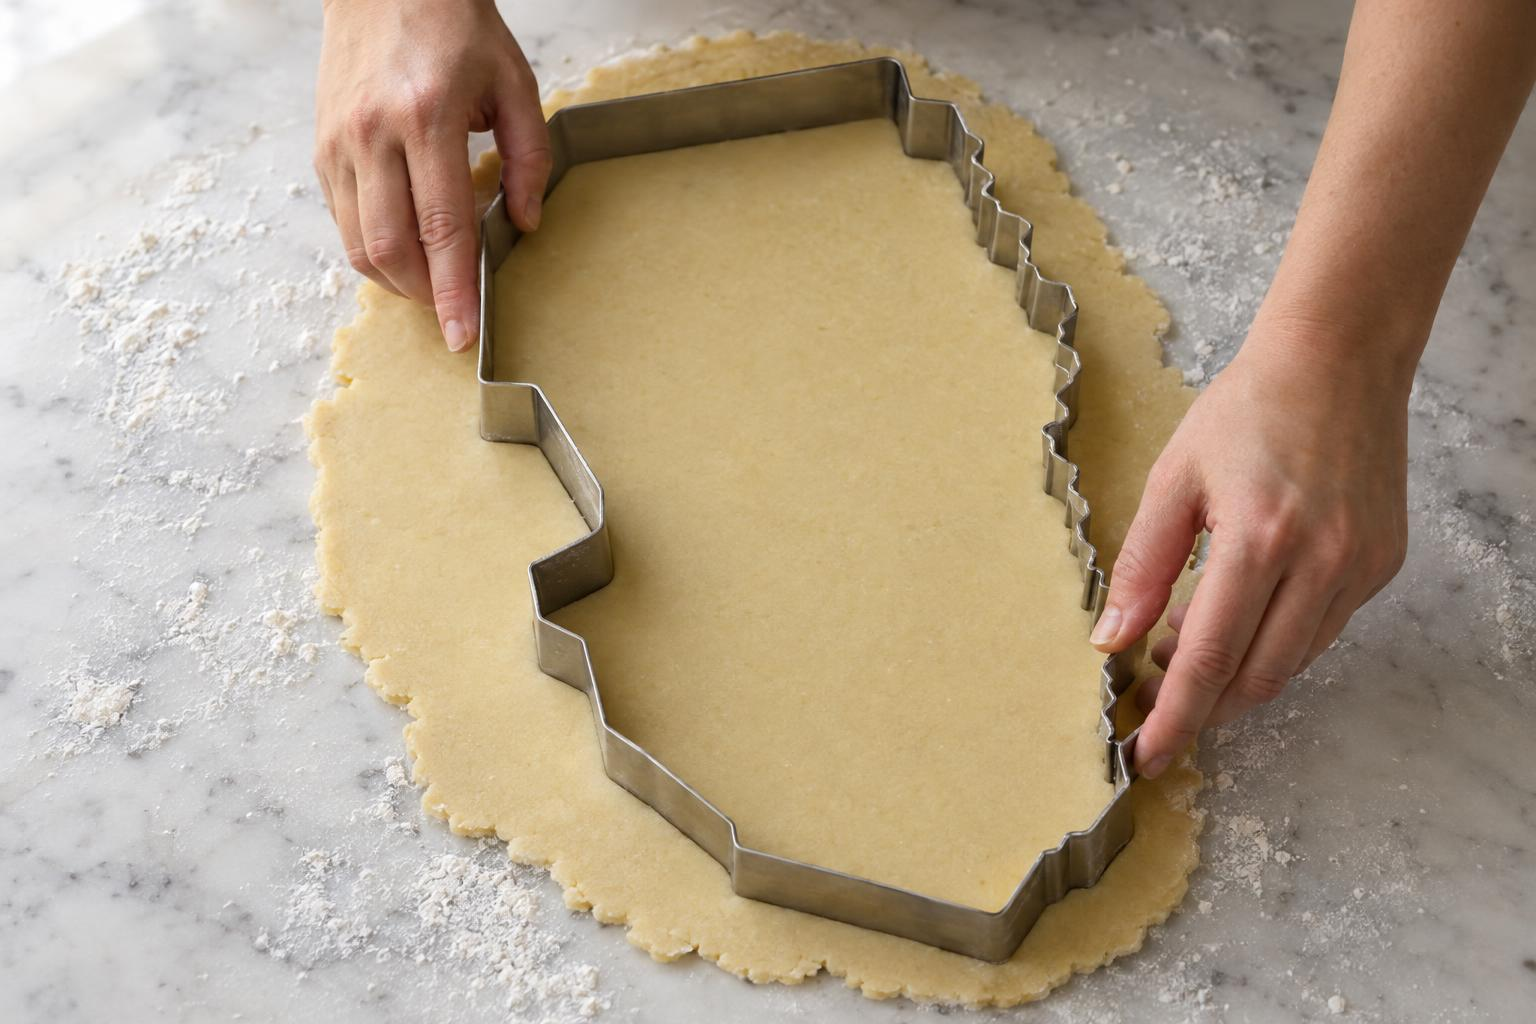
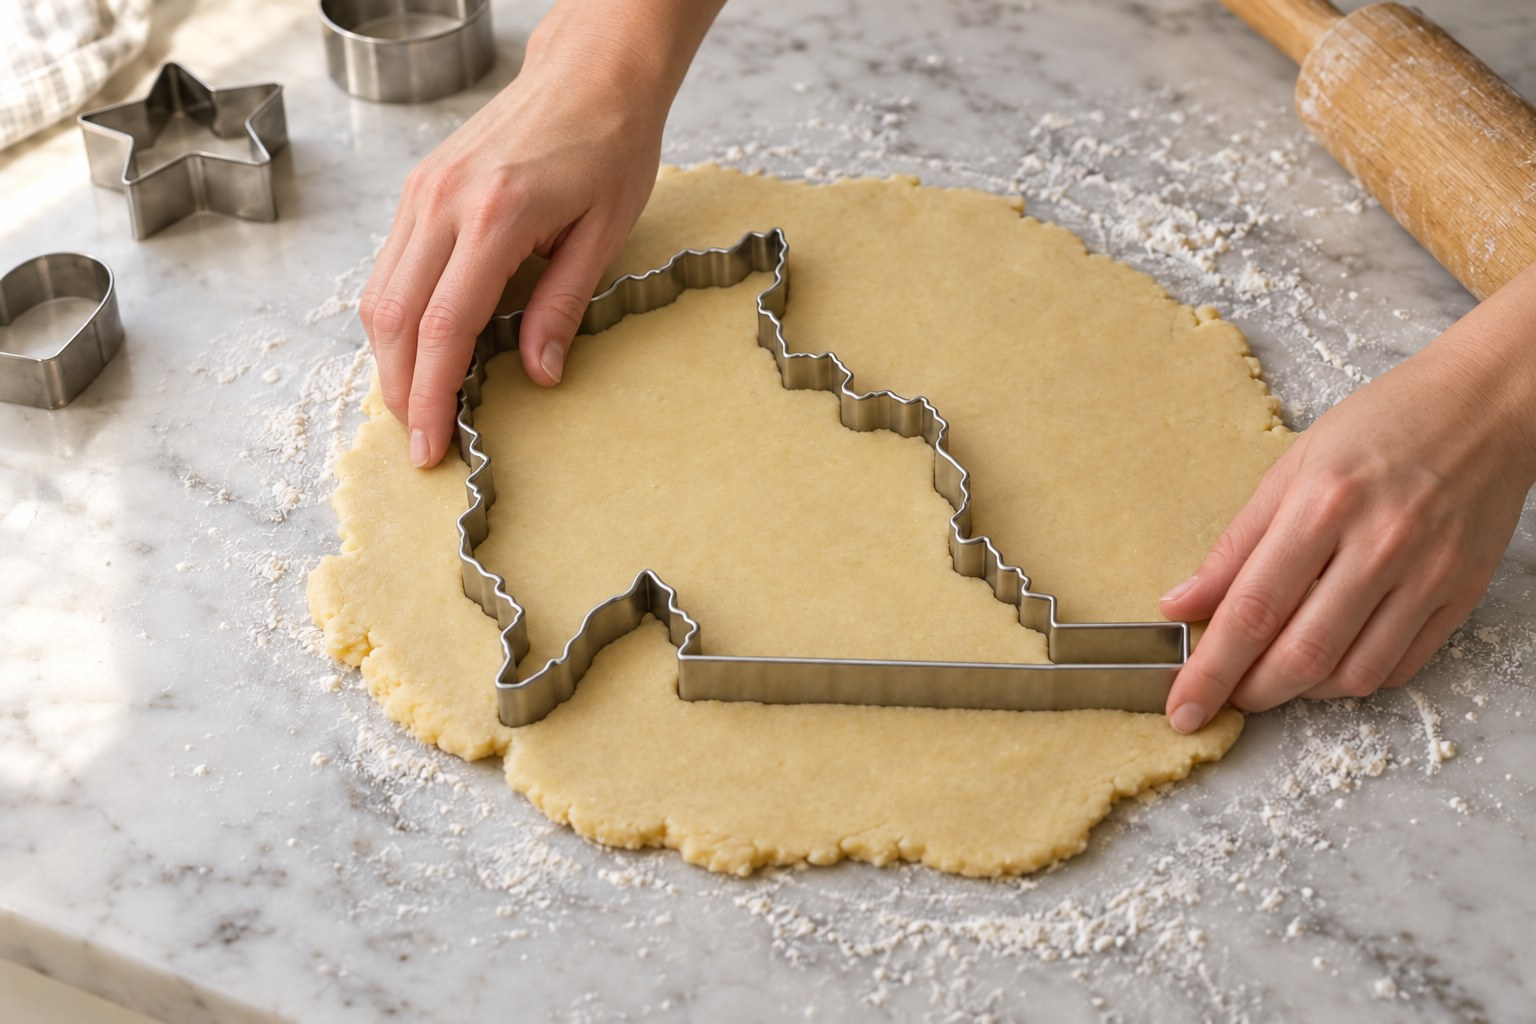
Cookie series with real Lab 11 geography; workflow slide moved before the model
- The five cut images in Day 22's cookie slide and Day 23's walkthrough are replaced
  with a version drawn from the Lab 11 data: the cutter is the real Utah County outline,
  the band is the 2-mile buffer around I-15 inside the county, and the round holes fall
  where the 12 stores' 2-mile buffers do. Each image is a gpt-image-2.5-sunburst edit of
  the previous one plus a shape guide drawn from the GeoPackage, so the counter, light
  and dough carry through. tools/generate_cookie_series.py rebuilds them.
- The first version (generic shapes) and its prompts are kept in
  tools/divider-images/archive/week12-cookies-v1/ with roll-back steps.
- Day 22: "Geoprocessing workflows" moves from before the data walk-through to right
  before "Putting it all together", so the generic shape leads into the real model.

diff --git a/tools/generate_cookie_series.py b/tools/generate_cookie_series.py
@@ -1,0 +1,169 @@
+"""Generate the cookie-cutter site-selection photo series with real Lab 11 geography.
+
+Each step is an image *edit*, not a fresh generation: the previous step's photo goes in as the
+first image (so the counter, light, dough and hands carry over), and a flat shape guide drawn from
+the real Lab 11 geometry goes in as the second (so the cutter is actually Utah County, the band is
+actually the 2-mile buffer around I-15 inside the county, and the round holes sit where the
+existing stores are). The guides are drawn by the `guides` step from GeoJSON exported out of the
+Lab 11 GeoPackage (tools/lab11_run_analysis.py writes it):
+
+    ogr2ogr -f GeoJSON -t_srs EPSG:26912 county.geojson UtahCounty.gpkg UtahCounty
+    ogr2ogr -f GeoJSON -t_srs EPSG:26912 MajorRoads_UTM.geojson UtahCounty.gpkg MajorRoads_UTM
+    ogr2ogr -f GeoJSON -t_srs EPSG:26912 WalmartBuffer_utm.geojson UtahCounty.gpkg WalmartBuffer_utm
+
+Only I-15 is buffered for the band (Lab 11 also buffers the highways, which makes a branching
+network no cookie cutter can be). Needs shapely, matplotlib, pillow and openai in a venv:
+
+    python tools/generate_cookie_series.py guides <geojson dir> <work dir>
+    python tools/generate_cookie_series.py photos <work dir> <step-1 photo> [first step]
+
+The API key comes from OPENAI_API_KEY or ~/.config/openai/api_key and is never printed.
+"""
+
+import base64
+import json
+import os
+import sys
+from pathlib import Path
+
+MODEL = os.environ.get("COOKIE_MODEL", "gpt-image-2.5-sunburst")
+TWO_MILES = 3218.69
+
+STYLE = ("Keep the same photograph: the same light marble countertop dusted with flour, the same pale "
+         "sugar cookie dough, the same warm soft window light from the left, the same three-quarter "
+         "overhead camera angle and the same white stainless steel cutters. Photorealistic. Hands only, "
+         "no faces. No text, labels, maps, lines or drawings anywhere in the photo: the second image is "
+         "only a shape reference and must not appear in the result.")
+
+STEPS = [
+    ("ws-cookie-2-county-cutter", "guide_county.png",
+     "Edit the first photo. Two hands press a large stainless steel cookie cutter down into the rolled-out "
+     "dough. The cutter's outline is exactly the dark silhouette in the second image, with the same "
+     "proportions and the same orientation (top of the silhouette toward the back of the counter): a "
+     "jagged, irregular west and north edge, a narrow tip at the south-west corner, and a long straight "
+     "rectangular arm along the south-east. The cutter fits inside the dough with dough showing outside "
+     "it on every side."),
+    ("ws-cookie-3-county-dough", "guide_county.png",
+     "Edit the first photo. The cutter has been lifted off. What remains on the counter is a piece of dough "
+     "cut cleanly to exactly the silhouette shape in the second image, same proportions and orientation. "
+     "All the dough that was outside the cutter has been gathered into a rough pile of scraps at the edge "
+     "of the frame. The same stainless steel cutter, in the same shape, lies on the counter beside the "
+     "dough piece. No hands."),
+    ("ws-cookie-4-band-cutter", "guide_band.png",
+     "Edit the first photo. Put the large cutter away and remove it from the counter; keep the county-shaped "
+     "dough piece exactly where and how it is. Two hands press a long, narrow stainless steel cookie cutter "
+     "into that dough. The narrow cutter is exactly the dark band in the second image, placed on the dough "
+     "exactly where the dark band sits inside the light gray county shape. It does NOT follow the outer "
+     "edge of the dough: it cuts through the interior. It starts at the top edge of the dough a little "
+     "right of center, runs down and to the right through the middle of the dough, then bends and runs "
+     "down and to the left, ending at the bottom edge left of center, with dough on both sides of it the "
+     "whole way. Gentle curves and rounded ends, about one eighth as wide as the dough. Only the dough "
+     "inside this narrow band will be kept."),
+    ("ws-cookie-5-round-cutters", "guide_final.png",
+     "Edit the first photo. The county-shaped dough has been trimmed: only the long, narrow, diagonal strip "
+     "of dough that was inside the band cutter remains, exactly the shape of the band (the gray and dark "
+     "areas together) in the second image; the rest of the dough has been cleared away. Several small round "
+     "stainless steel cookie cutters, all the same size, are being pressed into the strip at the places "
+     "marked by the red circles in the second image: a cluster of overlapping circles near the top, and "
+     "more spread down the strip. One hand presses a round cutter in; the others sit in the dough."),
+    ("ws-cookie-6-result", "guide_final.png",
+     "Edit the first photo. All the round cutters have been lifted out and set in a small group beside the "
+     "strip, with the little round discs of dough they punched out in a pile next to them. The strip now "
+     "has round holes and round bites cut out of it exactly where the red circles are in the second image, "
+     "so what remains matches the dark shape in the second image. No hands. Seen slightly from above, like "
+     "the final shot of a recipe."),
+]
+
+
+def guides(geo_dir, work):
+    import matplotlib
+    matplotlib.use("Agg")
+    import matplotlib.pyplot as plt
+    from shapely.geometry import shape
+    from shapely.ops import unary_union
+
+    geo, work = Path(geo_dir), Path(work)
+    work.mkdir(parents=True, exist_ok=True)
+
+    def load(name, keep=lambda f: True):
+        feats = json.loads((geo / name).read_text())["features"]
+        return unary_union([shape(f["geometry"]).buffer(0) for f in feats if keep(f)])
+
+    county = load("county.geojson")
+    i15 = load("MajorRoads_UTM.geojson", lambda f: (f["properties"].get("DOT_HWYNAM") or "").strip() == "I-15")
+    stores = load("WalmartBuffer_utm.geojson")
+    band = i15.buffer(TWO_MILES).intersection(county)
+    final = band.difference(stores)
+
+    minx, miny, maxx, maxy = county.bounds
+    cx, cy = (minx + maxx) / 2, (miny + maxy) / 2
+    h = (maxy - miny) / 0.82
+    w = h * 1.5
+
+    def fill(ax, g, fc, ec="none", lw=0, z=1):
+        for p in getattr(g, "geoms", [g]):
+            x, y = p.exterior.xy
+            ax.fill(x, y, fc=fc, ec=ec, lw=lw, zorder=z)
+            for hole in p.interiors:
+                ax.fill(*hole.xy, fc="white", ec=ec, lw=lw, zorder=z)
+
+    def canvas():
+        f = plt.figure(figsize=(15.36, 10.24), dpi=100)
+        ax = f.add_axes([0, 0, 1, 1])
+        ax.set_xlim(cx - w / 2, cx + w / 2)
+        ax.set_ylim(cy - h / 2, cy + h / 2)
+        ax.set_aspect("equal")
+        ax.axis("off")
+        return f, ax
+
+    f, ax = canvas(); fill(ax, county, "#333333"); f.savefig(work / "guide_county.png"); plt.close(f)
+    f, ax = canvas(); fill(ax, county, "#dddddd", "#999999", 1.5); fill(ax, band, "#333333", z=2)
+    f.savefig(work / "guide_band.png"); plt.close(f)
+    f, ax = canvas(); fill(ax, county, "#f2f2f2", "#cccccc", 1); fill(ax, band, "#bbbbbb", z=2); fill(ax, final, "#333333", z=3)
+    for p in getattr(stores, "geoms", [stores]):
+        x, y = p.exterior.xy
+        ax.plot(x, y, color="#c8102e", lw=2, zorder=4)
+    f.savefig(work / "guide_final.png"); plt.close(f)
+    print("guides written to", work)
+
+
+def api_key():
+    key = os.environ.get("OPENAI_API_KEY")
+    if not key:
+        p = Path.home() / ".config/openai/api_key"
+        key = p.read_text().strip() if p.exists() else None
+    if not key:
+        sys.exit("No OpenAI key: set OPENAI_API_KEY or write ~/.config/openai/api_key")
+    return key
+
+
+def photos(work, first_photo, start=None):
+    from openai import OpenAI
+    client = OpenAI(api_key=api_key())
+    work = Path(work)
+    prev = Path(first_photo)
+    log = []
+    begin = False if start else True
+    for name, guide, prompt in STEPS:
+        out = work / f"{name}.png"
+        if not begin:
+            if name == start:
+                begin = True
+            else:
+                prev = out
+                continue
+        full = prompt + " " + STYLE
+        with open(prev, "rb") as a, open(work / guide, "rb") as b:
+            r = client.images.edit(model=MODEL, image=[a, b], prompt=full, size="1536x1024", quality="high")
+        out.write_bytes(base64.b64decode(r.data[0].b64_json))
+        log.append({"id": name, "model": MODEL, "input": prev.name, "guide": guide, "prompt": full})
+        print("wrote", out, flush=True)
+        prev = out
+    (work / "series-manifest.json").write_text(json.dumps(log, indent=1))
+
+
+if __name__ == "__main__":
+    if sys.argv[1] == "guides":
+        guides(sys.argv[2], sys.argv[3])
+    else:
+        photos(sys.argv[2], sys.argv[3], sys.argv[4] if len(sys.argv) > 4 else None)

diff --git a/slides/day-22/walmart-site-selection.md b/slides/day-22/walmart-site-selection.md
@@ -337,7 +337,7 @@ When you run an **Intersection** or a **Union**, the attribute tables of both la
 * <i class="step"></i>
 * <i class="step"></i>
 
-<!-- The whole Walmart lab in one picture, before we touch the real data. Press → once per panel. 1: the rolled dough is everywhere; nothing has been ruled out. 2: the county-shaped cutter is the study area, a Clip. 3: the cut piece is a brand new layer and the scraps are thrown away. 4: the long band is the 2-mile buffer around I-15; pressing it in and keeping what is inside is an Intersection. 5: each round cutter is a 2-mile buffer around an existing store; this time we throw away what is inside, a Difference. 6: what is left satisfies every criterion at once, and that leftover dough is the answer to the lab. The one idea to land: Intersection keeps what is inside the cutter, Difference removes it. (Bring cookies some semester; the analogy sticks even better with a real sugar cookie in hand.) The census-density cut is left out of the pictures to keep it to six; mention that it is one more cutter. Images generated with gpt-image-2.5-flare (panel 4 with gpt-image-2.5-sunburst), November 2026; prompts in tools/divider-images/week12-cookies.json. Day 23's Workflow Walkthrough deck has an older, different cookie series (state, county, lake, stores). -->
+<!-- The whole Walmart lab in one picture, before we touch the real data. Press → once per panel. 1: the rolled dough is everywhere; nothing has been ruled out. 2: the county-shaped cutter is the study area, a Clip. 3: the cut piece is a brand new layer and the scraps are thrown away. 4: the long band is the 2-mile buffer around I-15; pressing it in and keeping what is inside is an Intersection. 5: each round cutter is a 2-mile buffer around an existing store; this time we throw away what is inside, a Difference. 6: what is left satisfies every criterion at once, and that leftover dough is the answer to the lab. The one idea to land: Intersection keeps what is inside the cutter, Difference removes it. (Bring cookies some semester; the analogy sticks even better with a real sugar cookie in hand.) The census-density cut is left out of the pictures to keep it to six; mention that it is one more cutter. The shapes are real: the cutter is the Utah County outline, the band is the 2-mile buffer around I-15 inside the county, and the round holes sit where the 12 existing stores' 2-mile buffers fall, all from the Lab 11 data. Point at the cluster of overlapping holes at the north end (Lehi and American Fork). The band is I-15 only; the lab also buffers the highways, which would make a branching cutter. Generated November 2026 as a chain of gpt-image-2.5-sunburst edits, each step from the previous photo plus a shape guide drawn from the Lab 11 GeoPackage: tools/generate_cookie_series.py. Thursday's Workflow Walkthrough uses the same six images. The first, generic-shape version is in tools/divider-images/archive/week12-cookies-v1/. -->
 
 ---
 
@@ -455,12 +455,6 @@ When you run an **Intersection** or a **Union**, the attribute tables of both la
 <!-- Fuller versions of each line: Select by Expression finds features matching a rule, e.g. all roads where RT_NAME = '0015', or all census blocks above a density threshold. Buffer is the area within a given distance of a feature. Clip cuts the input layer to the shape of an overlay layer. Intersection keeps only where two layers overlap and carries both attribute tables. Difference removes the input wherever the overlay covers it. Select by Location / Extract by Location picks features by how they sit relative to another layer. Dissolve merges features that share an attribute value into one. Field Calculator computes a new column, e.g. density = population / area. Reproject Layer writes a copy of a layer in a new CRS; run it before Buffer whenever the layer is in Web Mercator or latitude/longitude. These are the tools for Lab 11 and the final project. Every one of them is in the Processing Toolbox; teach them the search box at the top of the toolbox rather than memorizing menu paths. -->
 
 ---
-# Geoprocessing workflows
-
-![w:1140 center](images/ws-workflow-layers.png)
-
-<!-- The shape of every geoprocessing job. A rectangle is a layer, an oval is an operation. An operation eats one or more layers and makes a new layer, which the next operation eats. Some operations eat one layer (Buffer, Dissolve, Reproject Layer); many eat two (Intersection, Difference, Clip, Select by Location), which is how a second input joins the chain. The layers made along the way are intermediate layers: keep them and give them names you will recognize, so you can check each step and retrace your work. Have them draw this shape on paper before they open QGIS: it is the single most useful habit in the course. Original figure drawn by tools/draw_day22_figures.py; it replaces the diagram from Bolstad's GIS Fundamentals. -->
----
 
 # Utah County
 
@@ -542,6 +536,12 @@ When you run an **Intersection** or a **Union**, the attribute tables of both la
 
 <!-- UGRC's Census 2020 Blocks for Utah County, the same layer students download in Lab 11 (10,092 blocks, 659,399 people), with the 12 existing Walmart stores from Walmart's own store service on top, Sam's Club left out as the lab does. The pale blue blocks are water: Utah Lake is census blocks too, with nobody living in them. Blocks are tiny downtown and huge in the mountains, which is exactly why we need density, population divided by area, rather than raw population counts. That is a Field Calculator job. -->
 
+---
+# Geoprocessing workflows
+
+![w:1140 center](images/ws-workflow-layers.png)
+
+<!-- The shape of every geoprocessing job. A rectangle is a layer, an oval is an operation. An operation eats one or more layers and makes a new layer, which the next operation eats. Some operations eat one layer (Buffer, Dissolve, Reproject Layer); many eat two (Intersection, Difference, Clip, Select by Location), which is how a second input joins the chain. The layers made along the way are intermediate layers: keep them and give them names you will recognize, so you can check each step and retrace your work. Now that they have seen every piece of the Walmart analysis one at a time, this is the shape that ties them together, and the next slide is the same shape for the real Walmart model in the Model Designer. Have them draw this shape on paper before they open QGIS for Lab 11, which now requires it: it is the single most useful habit in the course. Original figure drawn by tools/draw_day22_figures.py; it replaces the diagram from Bolstad's GIS Fundamentals. -->
 ---
 
 # Putting it all together

diff --git a/slides/day-23/workflow-walkthrough.md b/slides/day-23/workflow-walkthrough.md
@@ -178,7 +178,7 @@ To find land at least 2 miles from an existing Walmart, inside Utah County, and 
 
 ![h:450 center](images/ws-cookie-2-county-cutter.jpg)
 
-<!-- The first cutter is the study area: the Utah County boundary. Everything outside it is about to go. In QGIS this is a Clip, or Extract by Location as Lab 11 does it for the census blocks. -->
+<!-- The first cutter is the study area, and it is the real Utah County outline. Everything outside it is about to go. In QGIS this is a Clip, or Extract by Location as Lab 11 does it for the census blocks. -->
 
 ---
 
@@ -202,7 +202,7 @@ To find land at least 2 miles from an existing Walmart, inside Utah County, and 
 
 ![h:450 center](images/ws-cookie-5-round-cutters.jpg)
 
-<!-- Each round cutter is a 2-mile buffer around an existing store. This time we throw away what is INSIDE the cutter: that is a Difference. Intersection keeps the inside, Difference removes it; that is the one idea to land. -->
+<!-- Each round cutter is a 2-mile buffer around an existing store, placed where the real stores are: note the overlapping cluster at the north end. This time we throw away what is INSIDE the cutter: that is a Difference. Intersection keeps the inside, Difference removes it; that is the one idea to land. -->
 
 ---
 
@@ -210,7 +210,7 @@ To find land at least 2 miles from an existing Walmart, inside Utah County, and 
 
 ![h:450 center](images/ws-cookie-6-result.jpg)
 
-<!-- What is left passes every criterion at once. It is a brand new layer that did not exist before; symbolized and put on a map with the required elements, it is the deliverable. The census-density cut is one more cutter that the pictures leave out. Same six images as the cookie slide in Tuesday's Day 22 deck (prompts in tools/divider-images/week12-cookies.json); they replaced an older series here on 2026-11-17 that cut the state, then the county, then Utah Lake. -->
+<!-- What is left passes every criterion at once. It is a brand new layer that did not exist before; symbolized and put on a map with the required elements, it is the deliverable. The census-density cut is one more cutter that the pictures leave out. Same six images as the cookie slide in Tuesday's Day 22 deck. The shapes are real Lab 11 geography: the Utah County outline, the 2-mile I-15 buffer (I-15 only; the lab adds the highways), and the 12 stores' buffers, made by tools/generate_cookie_series.py. They replaced an older series here on 2026-11-17 that cut the state, then the county, then Utah Lake. -->
 
 ---
 

diff --git a/tools/divider-images/archive/week12-cookies-v1/README.md b/tools/divider-images/archive/week12-cookies-v1/README.md
@@ -1,0 +1,13 @@
+# Cookie-cutter series, version 1 (backup)
+
+The six images used on the Day 22 "Site selection is cookie cutting" slide and in the Day 23
+Workflow Walkthrough deck from 2026-11-17 (commit 757d09d), before the geographically accurate
+version (tools/generate_cookie_series.py) replaced them the same day. `prompts.json` was
+tools/divider-images/week12-cookies.json until then. They are generic shapes, not the real Utah County, I-15 buffer or store
+locations. `prompts.json` holds the prompts (gpt-image-2.5-flare; panel 4 regenerated with
+gpt-image-2.5-sunburst using the prompt shown).
+
+To roll back, copy these files over the same names in both deck folders:
+
+    cp tools/divider-images/archive/week12-cookies-v1/ws-cookie-*.jpg slides/day-22/images/
+    cp tools/divider-images/archive/week12-cookies-v1/ws-cookie-*.jpg slides/day-23/images/
